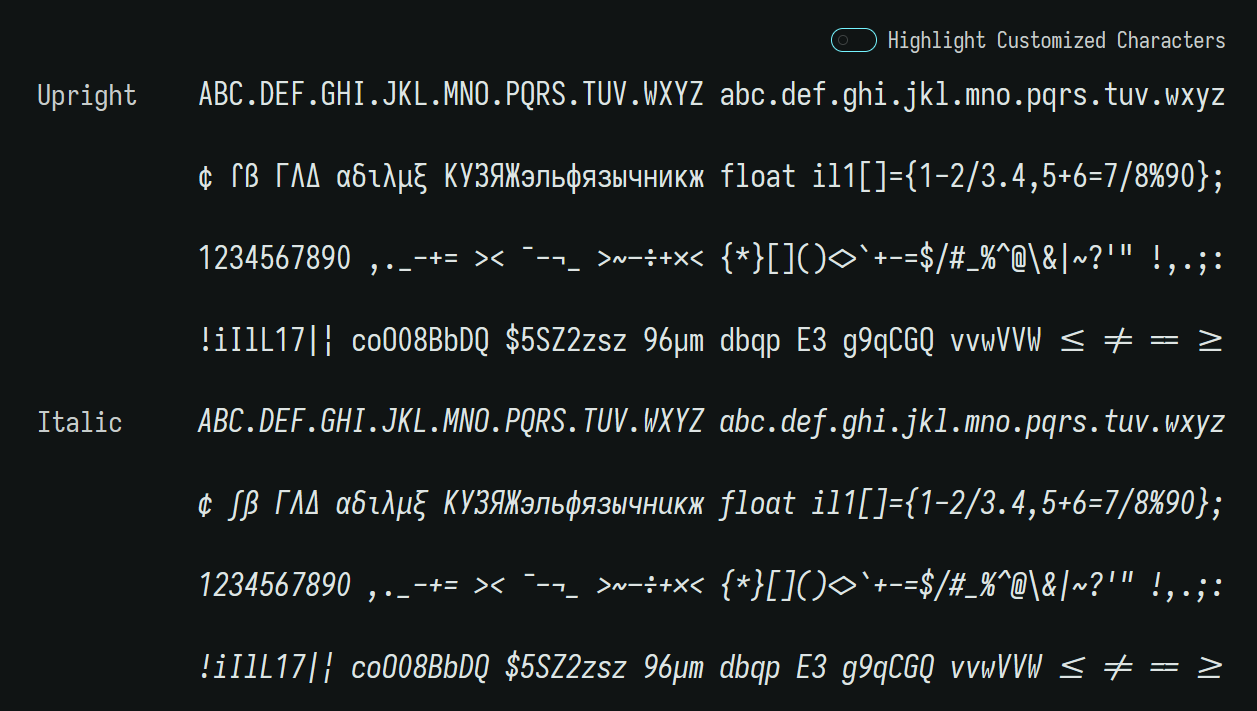
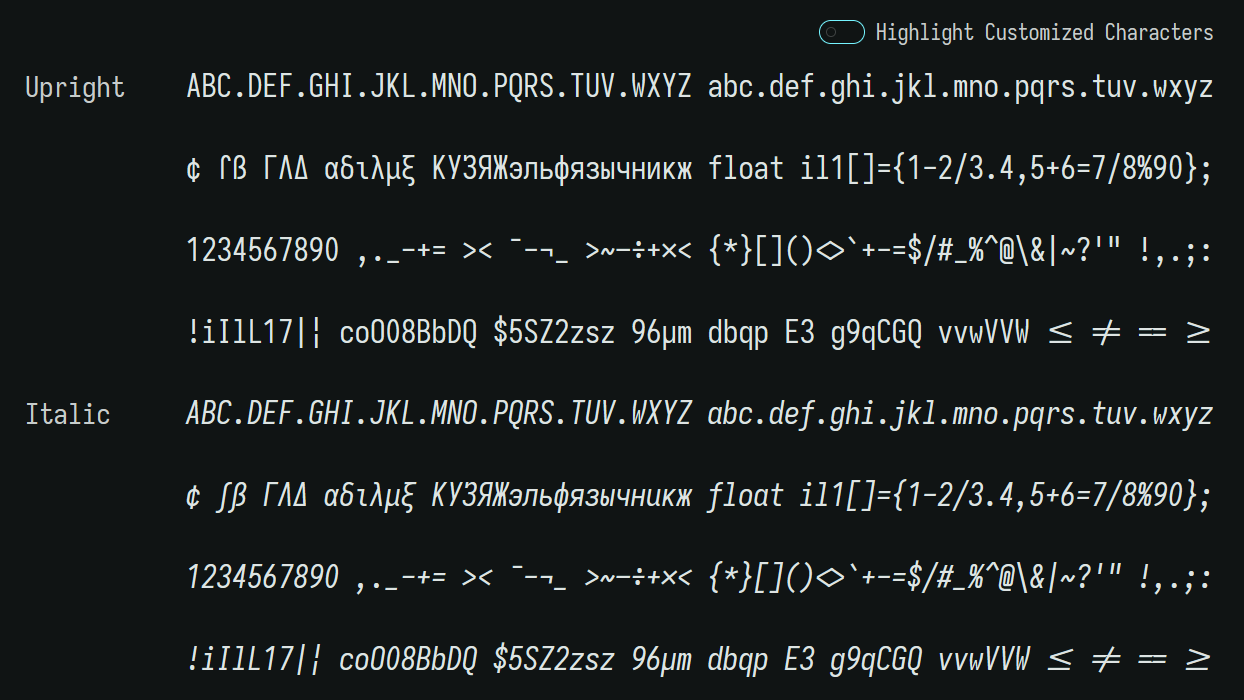
Version `2-25.0.0`
- Change to standard parens (Menlo style parens have bad kerning)
- Cyrillic Capital Ze (`З`) with serif at top

diff --git a/CHANGELOG.md b/CHANGELOG.md
@@ -1,0 +1,18 @@
+# Changelog
+
+All notable changes to this project will be documented in this file.
+
+The format is based on [Keep a Changelog](https://keepachangelog.com/en/1.0.0/).
+
+## `2-25.0.0`
+
+Release date `2023-07-12`
+
+- Change to standard parens (Menlo style parens have bad kerning)
+- Cyrillic Capital Ze (`З`) with serif at top
+
+## `1-25.0.0`
+
+Release date `2023-07-08`
+
+- Initial release
